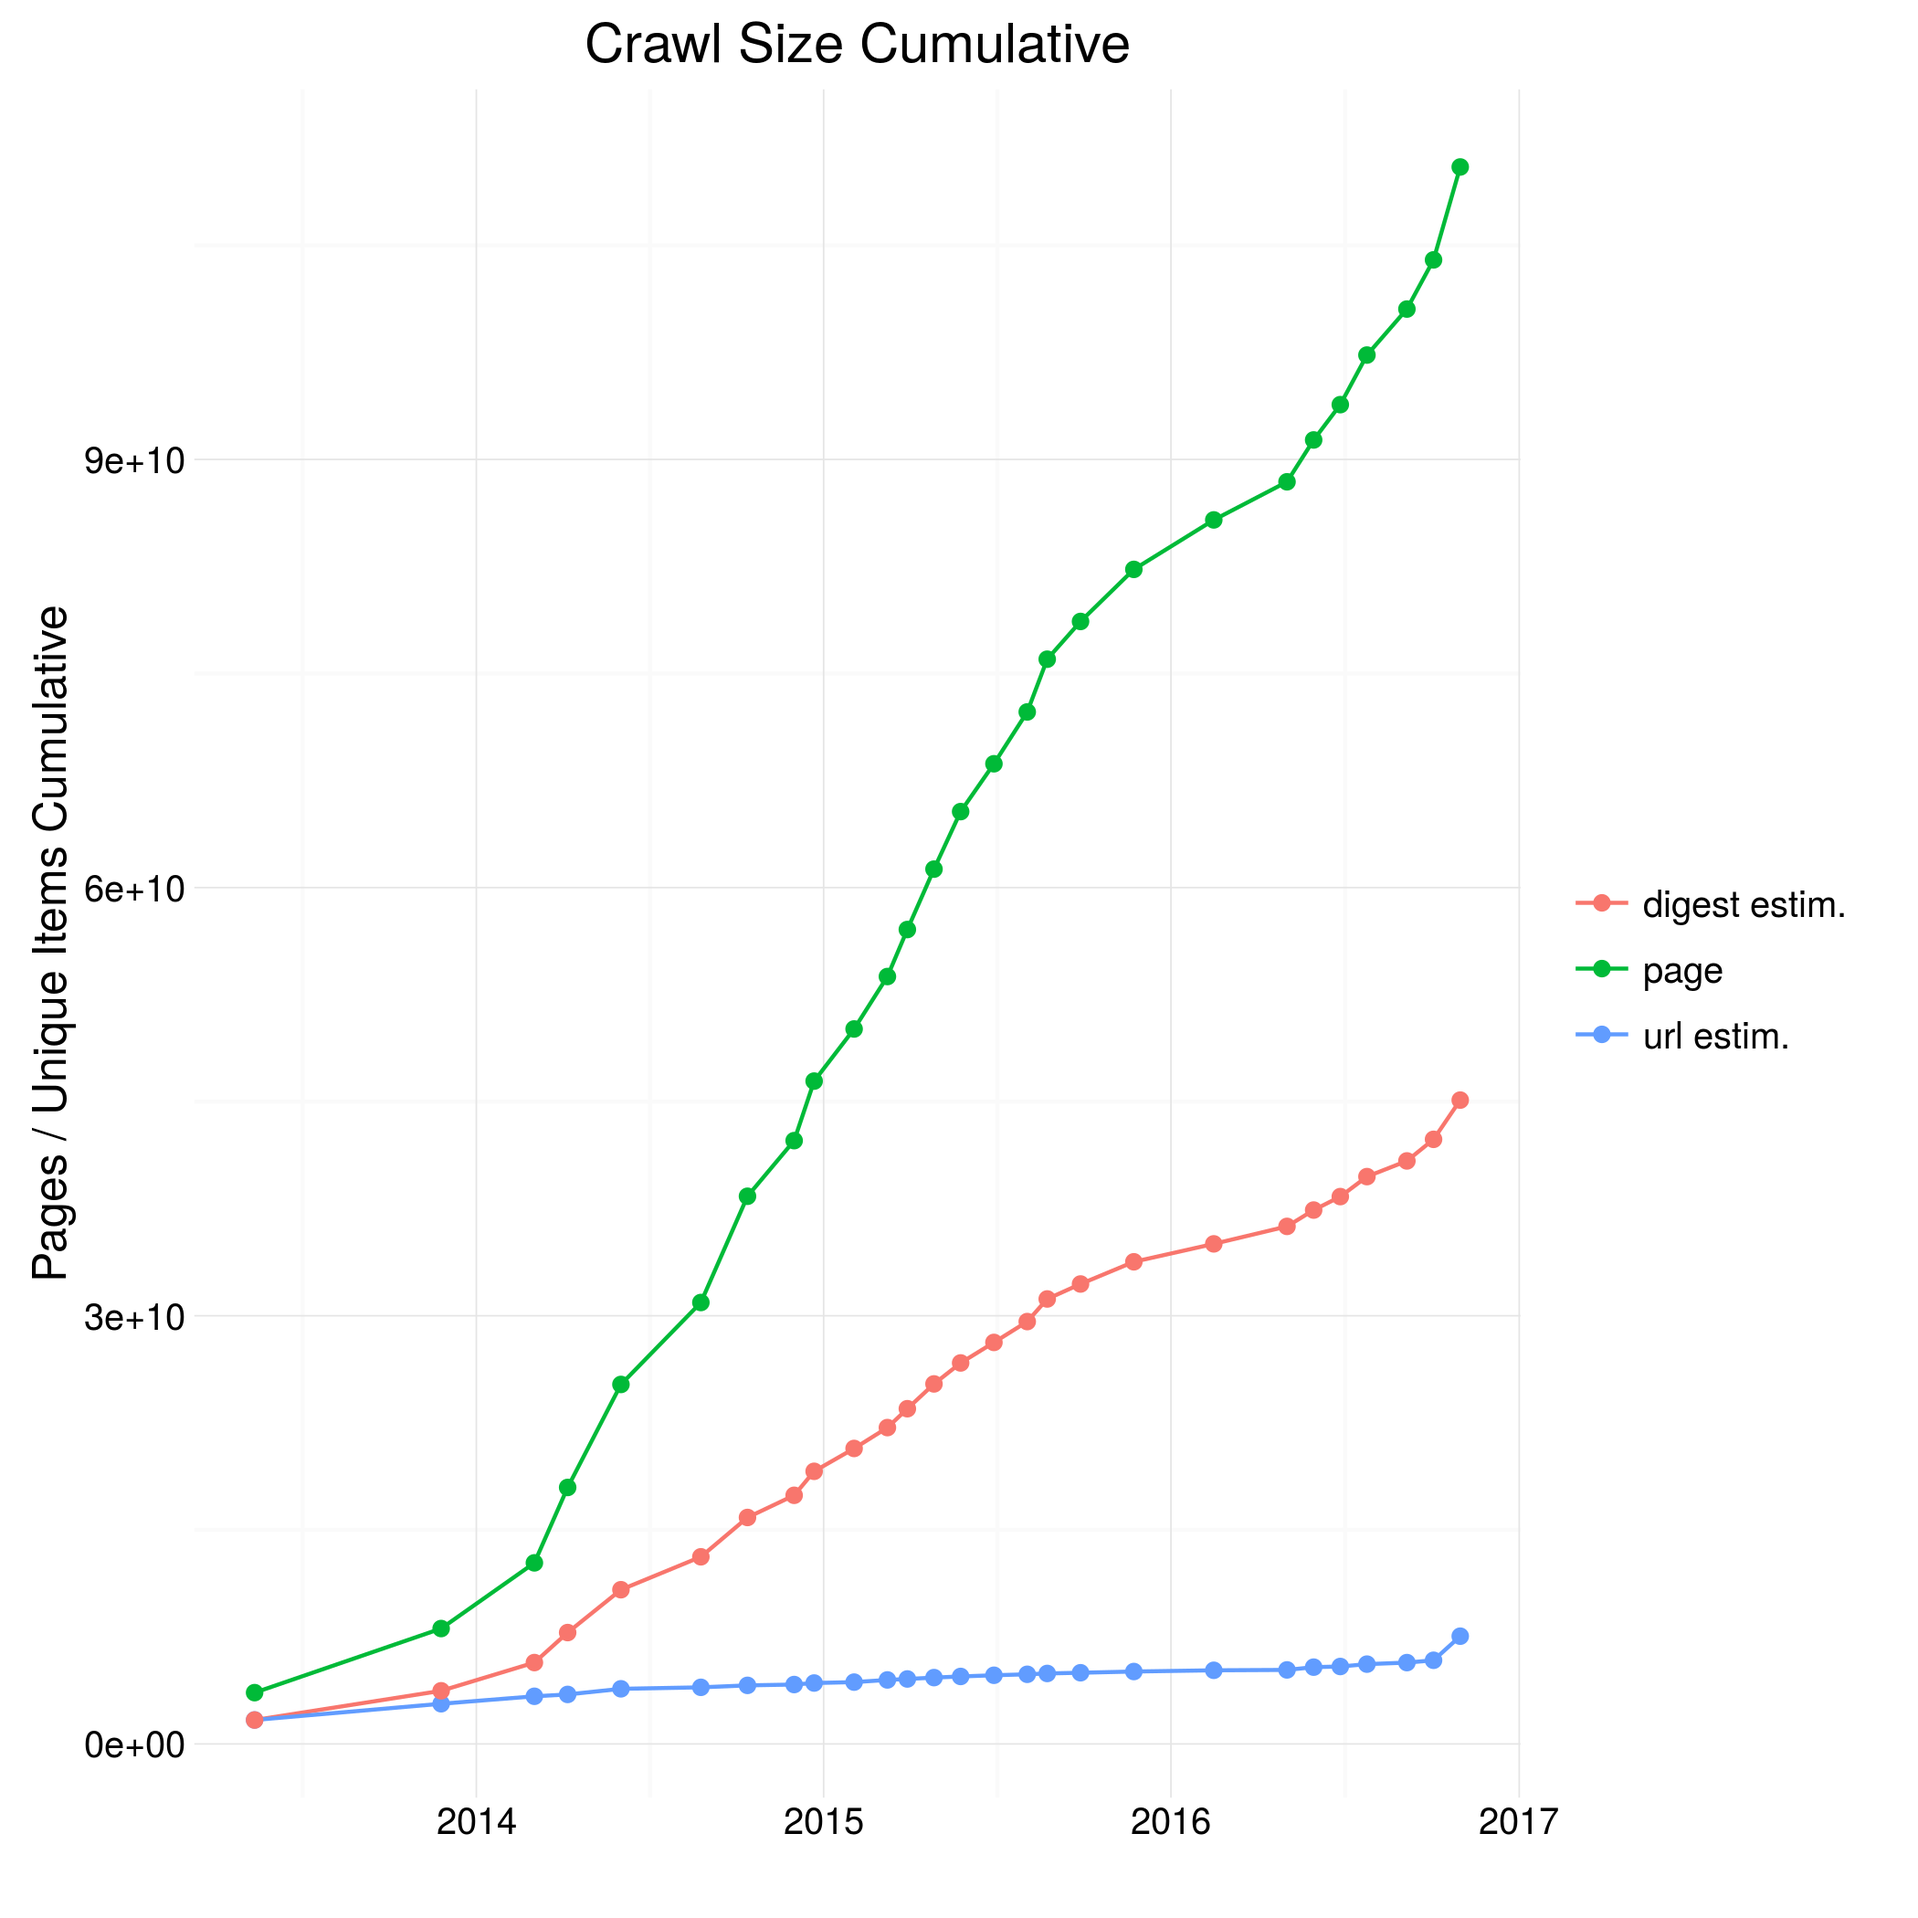
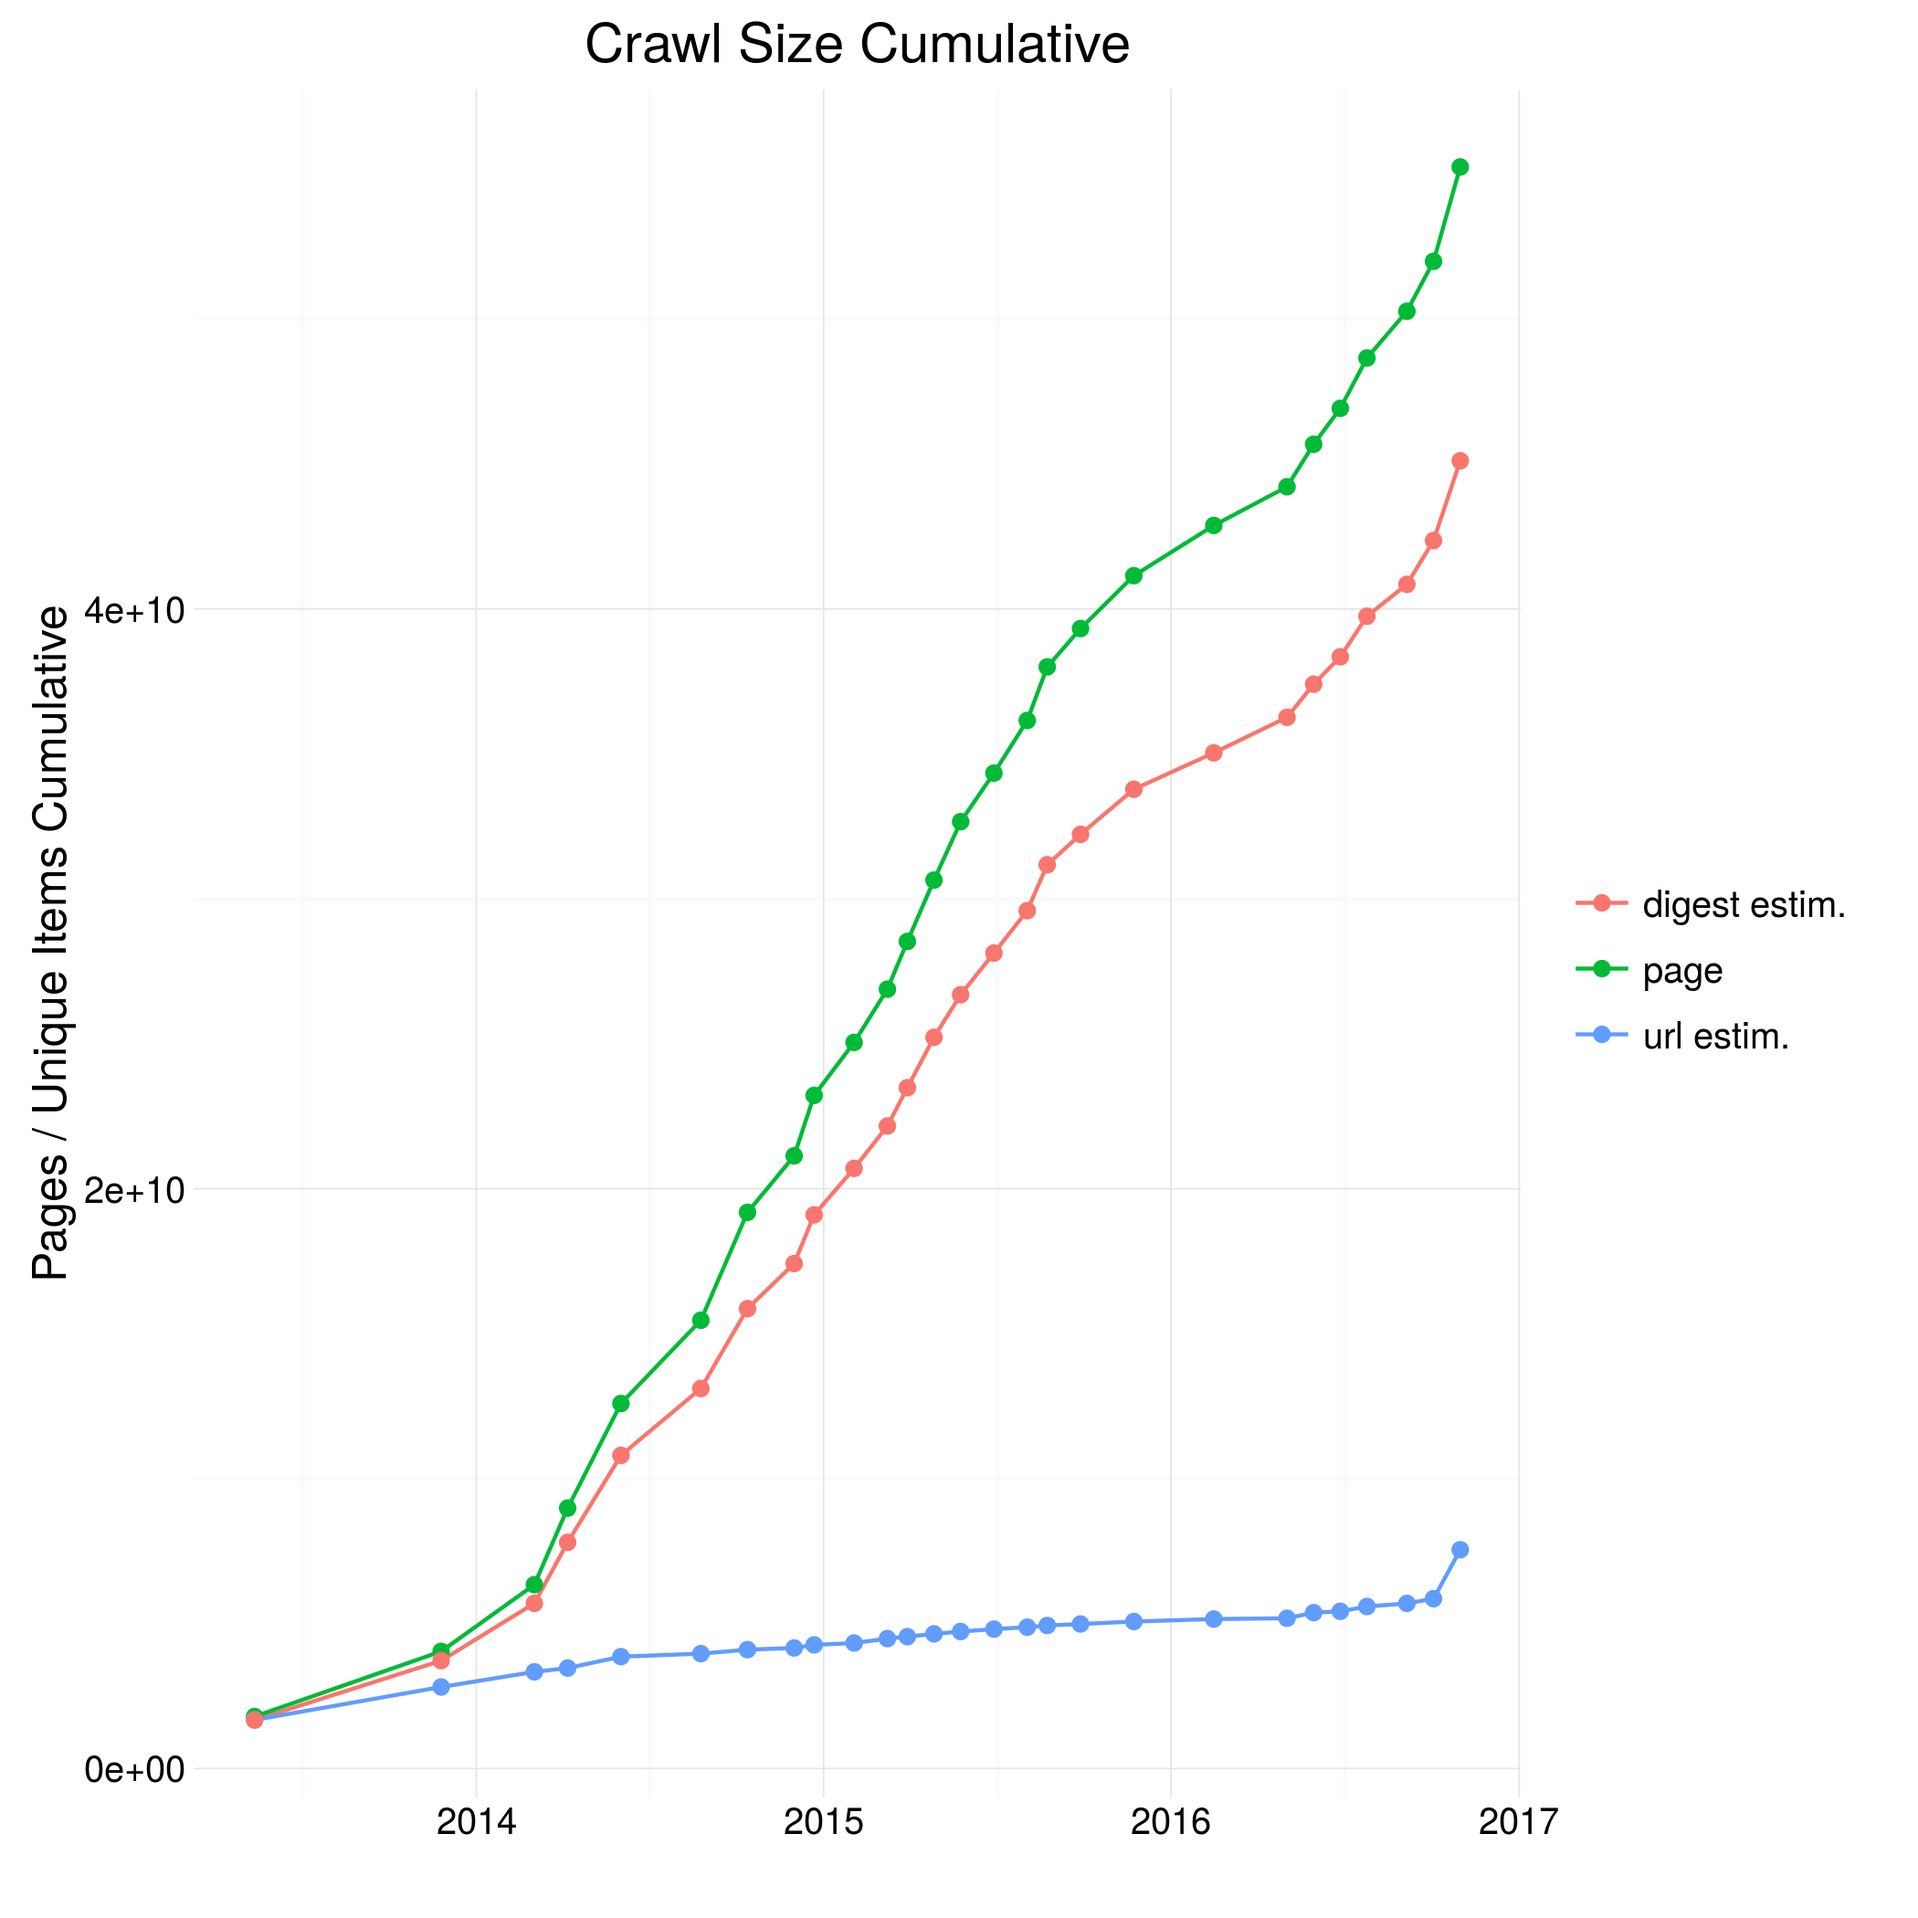
bug fix: do not count each monthly crawl twice when calculating cumulative size in pages

diff --git a/plot_crawl_size.py b/plot_crawl_size.py
@@ -63,16 +63,17 @@ class CrawlSizePlot(CrawlPlot):
         self.N += 1
 
     def cumulative_size(self):
+        total_pages = 0
+        for crawl in sorted(self.crawls):
+            total_pages += self.size['page'][self.crawls[crawl]]
+            self.add_by_type(crawl, 'page cumul.', total_pages)
         for item_type in self.hll.keys():
             item_type_cumul = ' '.join([item_type, 'cumul.'])
             item_type_new = ' '.join([item_type, 'new'])
             cumul_hll = HyperLogLog(HYPERLOGLOG_ERROR)
             n = 0
             hlls = []
-            total = 0
             for crawl in sorted(self.hll[item_type]):
-                total += self.size['page'][self.crawls[crawl]]
-                self.add_by_type(crawl, 'page cumul.', total)
                 n += 1
                 hll = self.hll[item_type][crawl]
                 last_cumul_hll_len = len(cumul_hll)
